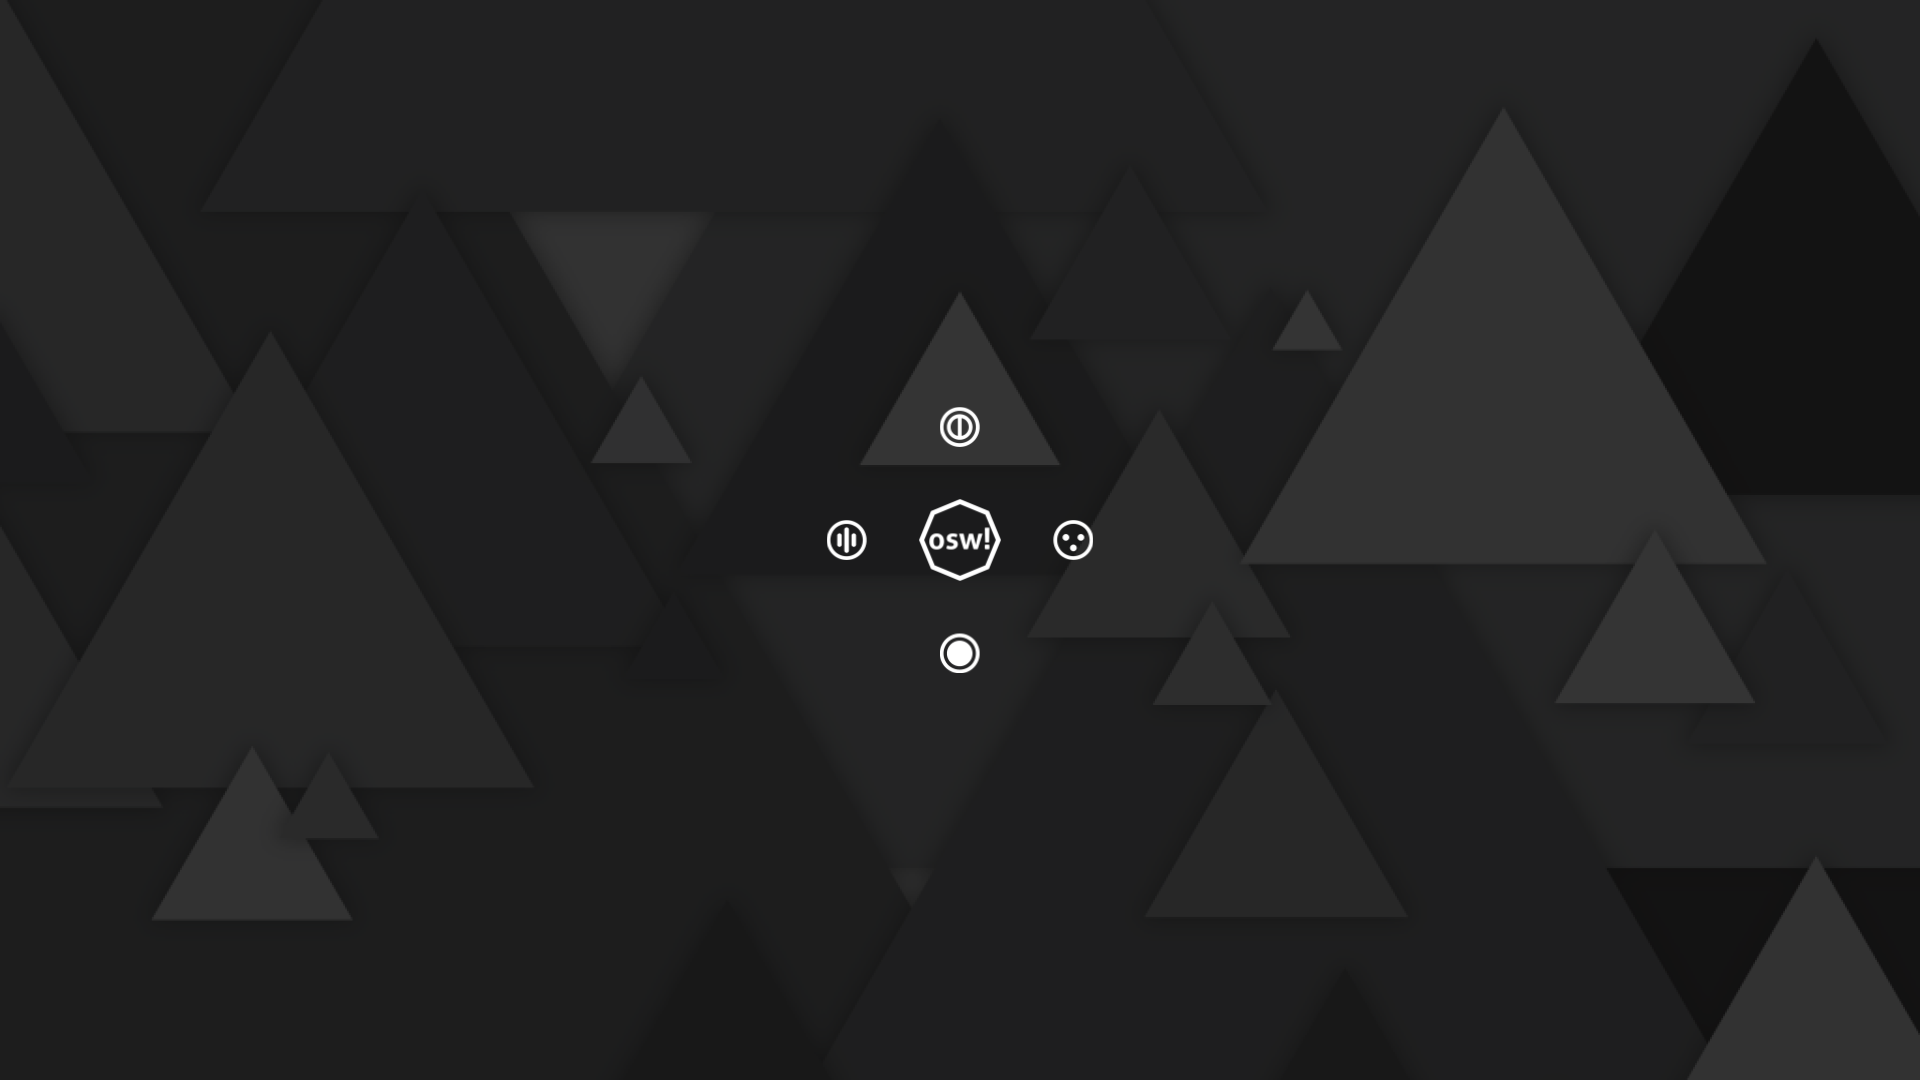
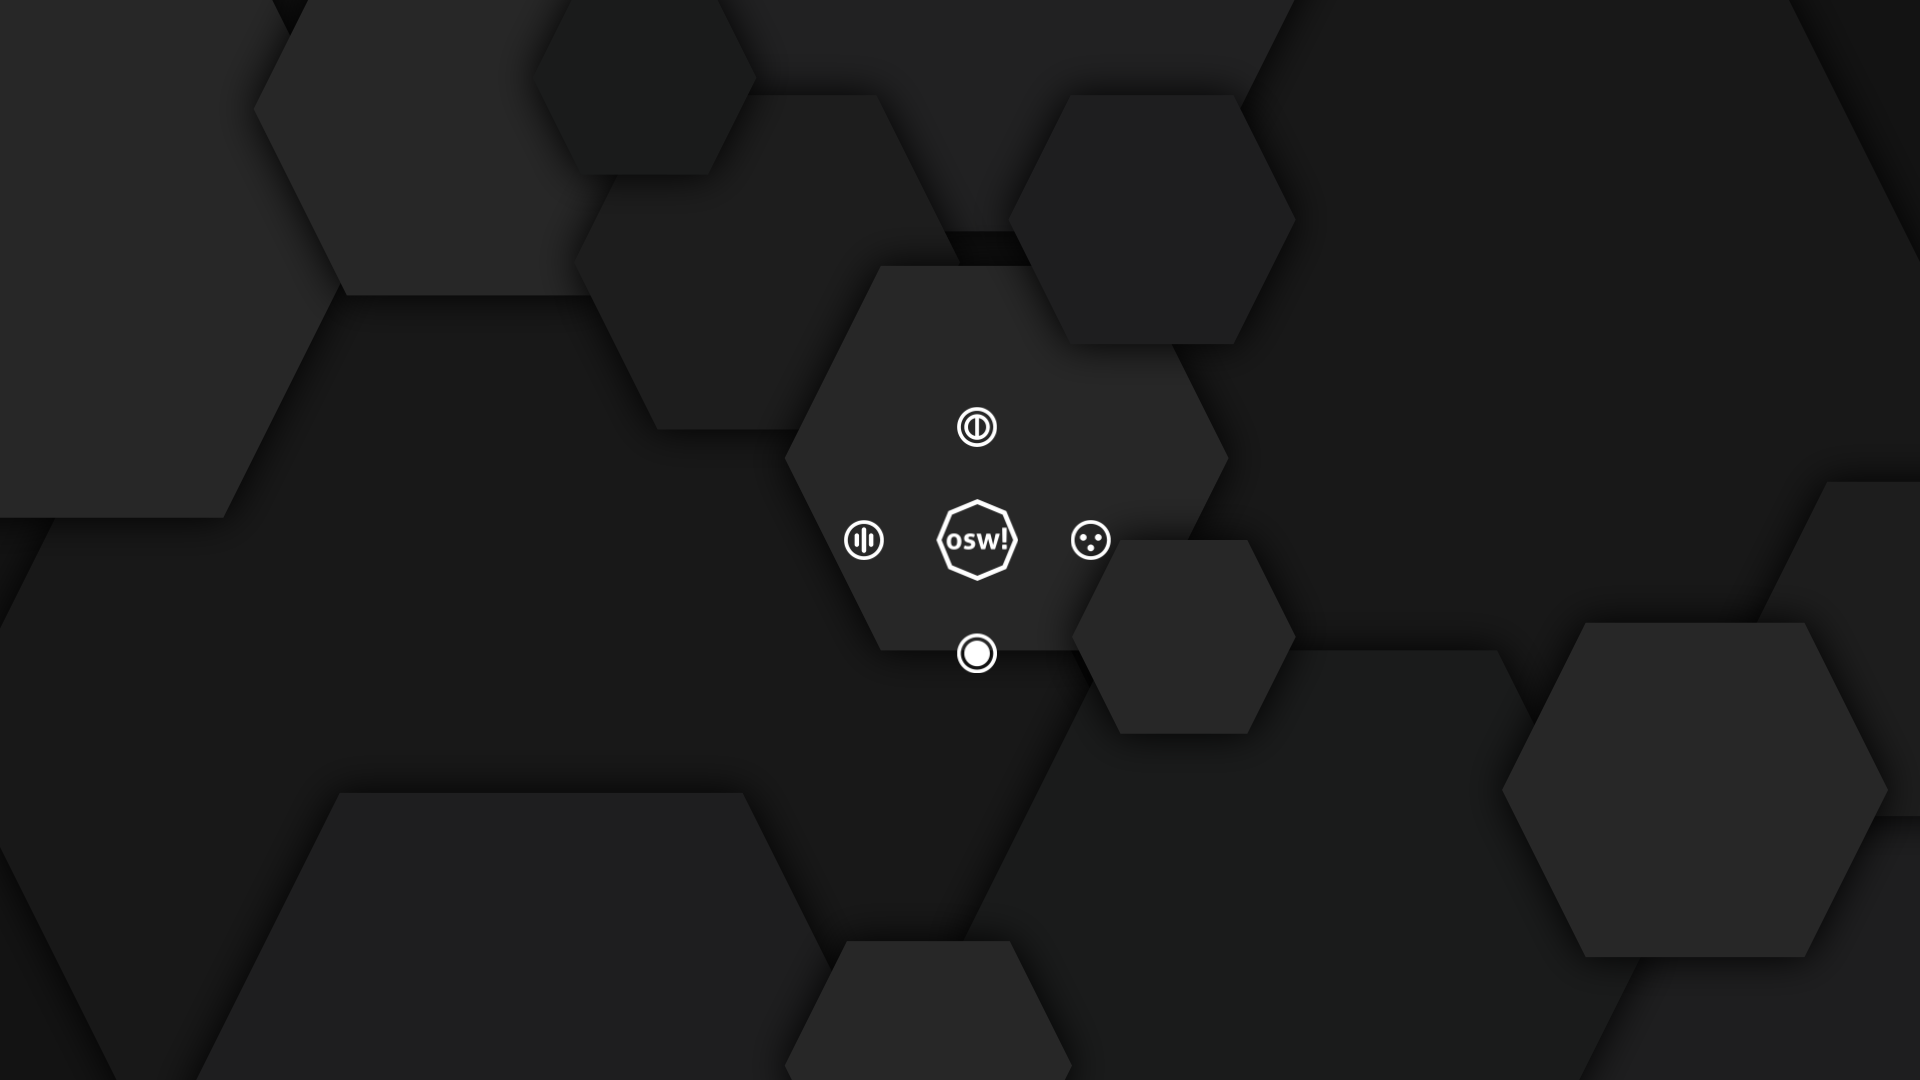
new background

diff --git a/main.js b/main.js
@@ -46,7 +46,7 @@ define(function(require) {
 	}
 	/* osw! version incremented manually */
 	/* Set element version numbers */
-	const version = "osw! 0.6.2b";
+	const version = "osw! 0.6.3b";
 	let classes = document.getElementsByClassName("client-version");
 	for (let i = 0; i < classes.length; i++) {
 		classes[i].textContent = version;
@@ -154,6 +154,8 @@ define(function(require) {
 	source.connect(analyser);
 	source.connect(audioCtx.destination);
 	let audioAnalyserData = new Uint8Array(analyser.frequencyBinCount);
+	let visualiserData = [];
+	let n = 0;
 	let audioAnalyserDataPreviousSum = 0;
 	let audioAnalyserDataSum = 0;
 	let beatThreshold = 0.02;
@@ -162,8 +164,8 @@ define(function(require) {
 	let beat = 0;
 	let lastBeat = 0;
 	let lastBeatThreshold = 0.05;
-	let logoSizeIncrease = 1.1;
-	/* Create audioVisualiser for audio visualizer */
+	let logoSizeIncrease = 1.05;
+	/* Create audioVisualiser for audio visualiser */
 	let audioVisualiser = document.getElementById("audio-visualiser");
 	let ctx = audioVisualiser.getContext("2d");
 	let settingsSet = false;
@@ -263,14 +265,29 @@ define(function(require) {
 						ctx.lineWidth = 3;
 					}
 					ctx.beginPath();
-					ctx.strokeStyle = "#fff5";
-					let length = audioAnalyserData.length * (2 / 3);
+					ctx.strokeStyle = "#fff2";
+					let length = 512;
+					if (visualiserData.length === 0) {
+						visualiserData = [];
+						for (let i = 0; i < length; i++) {
+							visualiserData.push(0);
+						}
+					}
+					for (let i = 0; i < length; i += 4) {
+						let l = (i * 5 + n) % length;
+						if (visualiserData[i] < audioAnalyserData[l]) {
+							visualiserData[i] += audioAnalyserData[l] / 8 * (255 / (l + 64) - 0.25);
+						} else {
+							visualiserData[i] *= 0.98;
+						}
+					}
+					n += 16;
 					for (let i = 0; i < length; i += 4) {
 						/* do not render visualiser lines that are too short*/
-						if (audioAnalyserData[i] < 80) {
+						if (visualiserData[i] < 80) {
 							continue;
 						}
-						let mag = audioAnalyserData[i] ** 1.5 / (255 ** 0.55) + 100;
+						let mag = (visualiserData[i] ** 1.5 / (255 ** 0.6) + 100);
 						let angle = utils.map(i, 0, length, Math.PI, 3 * Math.PI);
 						/* optimised rendering by not rendering parts of lines that are unseen */
 						ctx.moveTo(audioVisualiser.width / 2 + Math.sin(angle) * audioVisualiser.width / 4, audioVisualiser.height / 2 + Math.cos(angle) * audioVisualiser.height / 4);
@@ -576,6 +593,9 @@ define(function(require) {
 			}
 		}
 		reduceVolume();
+		resetMenu();
+		document.getElementById("logo").style.background = "none";
+		document.getElementById("logo").style.backgroundColor = "#000";
 		document.getElementById("goodbye").style.zIndex = 10000;
 		document.getElementById("goodbye").style.opacity = 1;
 	});

diff --git a/style.css b/style.css
@@ -165,8 +165,14 @@ img {
 	height: 6vh;
 	color: #e4ecef;
 	transform: skew(-10deg);
-	transition: border-top 0.2s ease;
+	transition: border-top background;
+	transition-duration: 0.4s;
 }
+
+.buttons-container:active {
+	transition-duration: 0s;
+}
+
 .buttons-container-text {
 	text-align: center;
 	position: relative;
@@ -193,6 +199,10 @@ img {
 	border-top: 1.5vh solid #ff8426;
 }
 
+#bottom-bar-upload:active {
+	background: #ff8426;
+}
+
 #bottom-bar-mods {
 	box-sizing: border-box;
 	border-top: 0.5vh solid #ffcb2077;
@@ -200,6 +210,10 @@ img {
 
 #bottom-bar-mods:hover {
 	border-top: 1.5vh solid #ffcb20;
+}
+
+#bottom-bar-mods:active {
+	background: #ffcb20;
 }
 
 #bottom-bar-random {
@@ -211,6 +225,10 @@ img {
 	border-top: 1.5vh solid #89b202;
 }
 
+#bottom-bar-random:active {
+	background: #89b202;
+}
+
 #bottom-bar-options {
 	box-sizing: border-box;
 	border-top: 0.5vh solid #66ccff77;
@@ -220,6 +238,6 @@ img {
 	border-top: 1.5vh solid #66ccff;
 }
 
-#bottom-bar-options:hover #bottom-bar-effect {
+#bottom-bar-options:active {
 	background: #66ccff;
 }

diff --git a/src/stylesheets/webpage-state-menu.css b/src/stylesheets/webpage-state-menu.css
@@ -1,8 +1,9 @@
 #audio-visualiser {
 	z-index: 5;
 	position: absolute;
-	transition: left 0.25s, top 0.25s, width 0.25s, height 0.25s;
+	transition: left top width height;
 	transition-timing-function: ease;
+	transition-duration: 0.05s;
 }
 
 #bottom-bar-client-version {
@@ -24,7 +25,8 @@
 	background-color: #FD67AE;
 	background-size: 50vh;
 	clip-path: polygon(50% 0, 85% 15%, 100% 50%, 85% 85%, 50% 100%, 15% 85%, 0 50%, 15% 15%);
-	transition: width 0.5s, top 0.5s, left 0.5s, background-size 0.5s, filter 0.5s;
+	transition: width top left background-size filter;
+	transition-duration: 0.25s;
 	transition-timing-function: cubic-bezier(0, .65, .25, 1.5);
 	position: absolute;
 	/* if javascript isn't enabled */

diff --git a/index.html b/index.html
@@ -284,7 +284,6 @@
 			</div>
 		</div>
 		<div id="bottom-bar">
-			<!-- <div style="width: 100%; background: #ff8426; height: 2vh;" id="bottom-bar-effect"></div> -->
 			<div style="display:inline-block; width: 15vw; float: left;">
 				<div id="back-button">
 					<div id="bottom-bar-anti-skew">
@@ -430,7 +429,7 @@
 				<p id="end-results-date-played">played on </p>
 			</div>
 		</div>
-		<script type="text/javascript" src="jszip.js"></script>
+		<script type="text/javascript" src="src/scripts/libs/jszip.js"></script>
 		<script data-main="main" type="text/javascript" src=require.js></script>
 	</body>
 	<link rel="stylesheet" href="https://fonts.googleapis.com/css?family=Varela Round">

diff --git a/CHANGELOG.md b/CHANGELOG.md
@@ -1,6 +1,11 @@
 Changelog format is based on [Keep a Changelog](https://keepachangelog.com/en/1.0.0/),
 and this project adheres to [Semantic Versioning](https://semver.org/spec/v2.0.0.html)
 ---
+## [0.6.3b] - 2021-04-25
+### Changed
+- new hexagon background
+- spiced audio visualiser effects
+---
 ## [v0.6.2] - 2021-04-24
 ### Changed
 - Star rating to more closely match classical osu!
